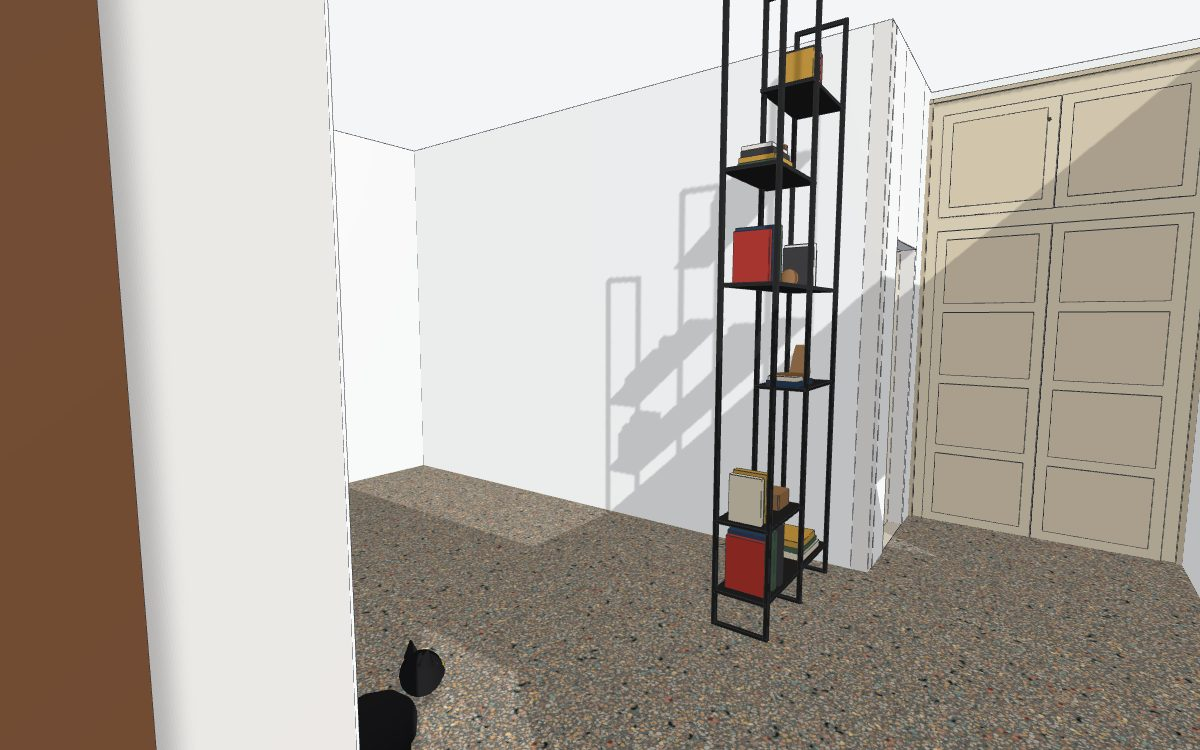
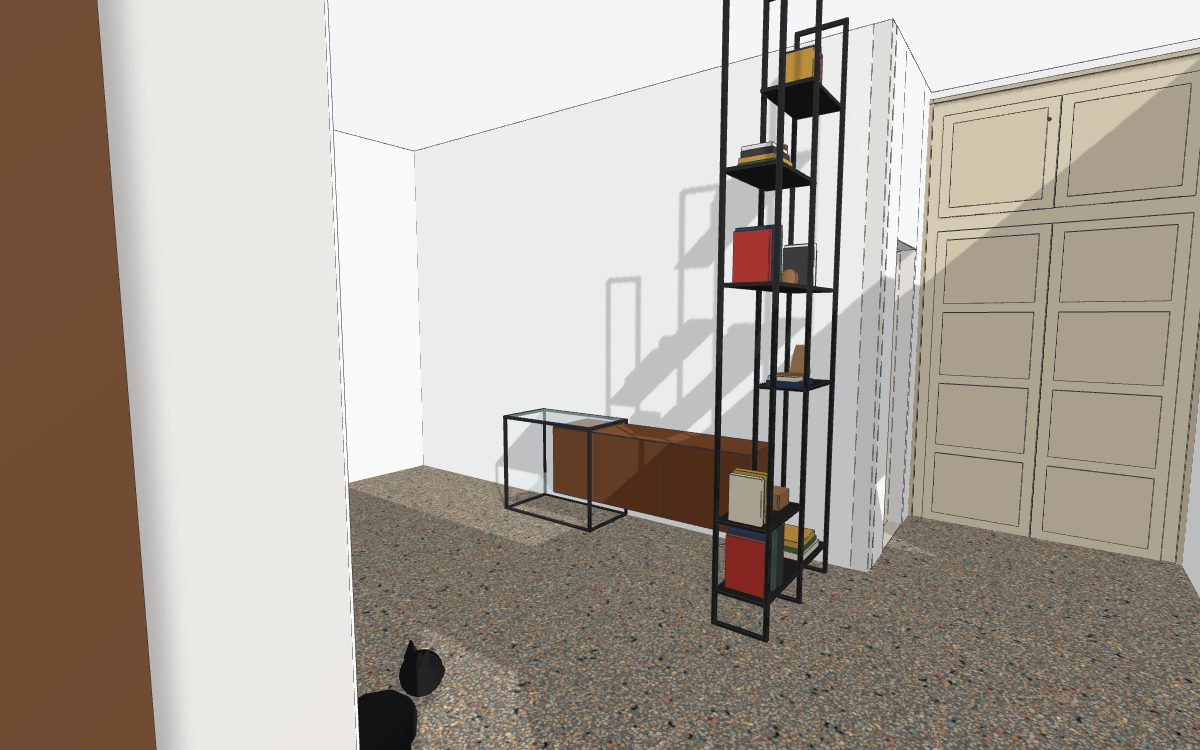
Add the Mogg Zoom sideboard (212x50x79) in the soggiorno, built from the maker's 3D file
Claude-Session: https://claude.ai/code/session_017Czcnh6xzZxgGSwco7M1Pu

Changed region(s): [[0.4008, 0.5213, 0.6475, 0.7053]]

diff --git a/projects/casa-poggi/house.js b/projects/casa-poggi/house.js
@@ -3,7 +3,7 @@
 // Source: floor plan PDF "Planimetria_Casa_Poggi_Milano_modificata" (stato di fatto). "measured" = printed on the drawing, "estimate" = guessed.
 // Basic shell only: walls, openings, floor, balconies. No furniture, no materials yet (neutral colours).
 const path = require('path');
-const kit = require('../../scripts/scene-kit').createScene({ defaultOn: ['porte', 'armadio', 'porta-bagno', 'pittura', 'condizionatore', 'split-camera', 'lampada-terra', 'gatto', 'libreria', 'porta-camera', 'pavimento-terrazzo'] });
+const kit = require('../../scripts/scene-kit').createScene({ defaultOn: ['porte', 'armadio', 'porta-bagno', 'pittura', 'condizionatore', 'split-camera', 'lampada-terra', 'gatto', 'libreria', 'credenza-zoom', 'porta-camera', 'pavimento-terrazzo'] });
 const { box, wall, slab, tube, rbox, group, defGroup, light } = kit;
 
 // ---------- dimensions (cm) ----------
@@ -291,6 +291,39 @@ const balcony = (n, x0, x1, y0, y1, side) => {
     box('/Split_Camera/Split_Aletta', [232, 232, 228, 255], x0 + 4, y1 - 4, z0 - 0.6, x1 - 4, y1 - 0.5, z0 + 0.4);   // flap
     box('/Split_Camera/Split_Display', [40, 40, 44, 255], x1 - 14, y1 - 0.1, z0 + 6, x1 - 6, y1 + 0.1, z0 + 8);
   });
+}
+
+// Mogg Zoom sideboard (credenza), 212 x 50 x 79 cm, from the maker's 3D file (.3ds, mm) and the user's photo: a black
+// steel-bar glass box (90 cm, two glass shelves) at one end, a walnut 3-door cabinet on legs running through it.
+// In the soggiorno against the wall towards the bagno, perpendicular to the bookcase, glass box towards the north end
+// (on the left seen from the room, as in the photo). One movable piece (every leaf name starts with "Credenza", no digits)
+// sizes from the 3D file; position along the wall estimate (10 cm past the bookcase)
+{ const XW = ROOMS.soggiorno.w, Y1 = 715 + 212;      // wall face, north end of the piece
+  // file frame (mm): X along the length -150..1962 (glass box at -150), Y depth 0 = front .. 500 = back, Z up
+  const P = (X, Y) => [XW - (500 - Y) / 10, Y1 - (X + 150) / 10];
+  const B = (n, c, X0, X1, Ya, Yb, Z0, Z1) => { const a = P(X0, Ya), b = P(X1, Yb);
+    box(`/Credenza_Zoom/Credenza_${n}`, c, Math.min(a[0], b[0]), Math.min(a[1], b[1]), Z0 / 10, Math.max(a[0], b[0]), Math.max(a[1], b[1]), Z1 / 10); };
+  const BK = [28, 28, 30, 255], WD = [118, 70, 40, 255], WD2 = [104, 60, 34, 255], GL = [210, 225, 225, 70], t = 18;
+  defGroup('credenza-zoom', 'Credenza Zoom (Mogg) 212 x 50 x 79', 'Arredi');
+  group('credenza-zoom', () => {
+    // glass box: 12 steel bars of 18 mm, x -150..750, depth 0..500, height 0..790
+    for (const [Xa, Xb] of [[-150, -150 + t], [750 - t, 750]]) for (const [Ya, Yb] of [[0, t], [500 - t, 500]]) B('Teca_Montante', BK, Xa, Xb, Ya, Yb, 0, 790);
+    for (const [Za, Zb] of [[0, t], [790 - t, 790]]) {
+      for (const [Ya, Yb] of [[0, t], [500 - t, 500]]) B('Teca_Traverso', BK, -150, 750, Ya, Yb, Za, Zb);
+      for (const [Xa, Xb] of [[-150, -150 + t], [750 - t, 750]]) B('Teca_Traverso', BK, Xa, Xb, 0, 500, Za, Zb);
+    }
+    for (const [Za, Zb] of [[212, 218], [784, 790]]) B('Teca_Vetro', GL, -130.5, 730.5, 19.5, 480.5, Za, Zb);
+    // walnut cabinet 366..1962 on legs, body z 235..755, doors on the front face
+    B('Mobile_Corpo', WD, 366, 1962, 52, 465, 254, 736);
+    B('Mobile_Top', WD, 364, 1964, 37, 463, 736, 755);
+    B('Mobile_Fondo', WD, 364, 1964, 37, 463, 235, 254);
+    B('Mobile_Anta_Sinistra', WD2, 366, 714, 33, 52, 237, 753);
+    B('Mobile_Montante', WD, 716, 766, 33, 52, 237, 753);
+    B('Mobile_Anta_Centrale', WD2, 768, 1364, 33, 52, 237, 753);
+    B('Mobile_Anta_Destra', WD2, 1366, 1962, 33, 52, 237, 753);
+    for (const [Ya, Yb] of [[58 + 51, 58 + 69], [322 + 51, 322 + 69]]) B('Gamba', BK, 1796, 1814, Ya, Yb, 0, 235);   // two thin black legs (the glass box carries the other end)
+  });
+  kit.items.filter(i => i.n.includes('Credenza_Teca_Vetro')).forEach(i => { i.ne = 1; });
 }
 
 // Mogg Costantina Opal floor lamp (Nava + Arosio): a totem of 7 opal glass elements (cylinders, cones, double cones)
